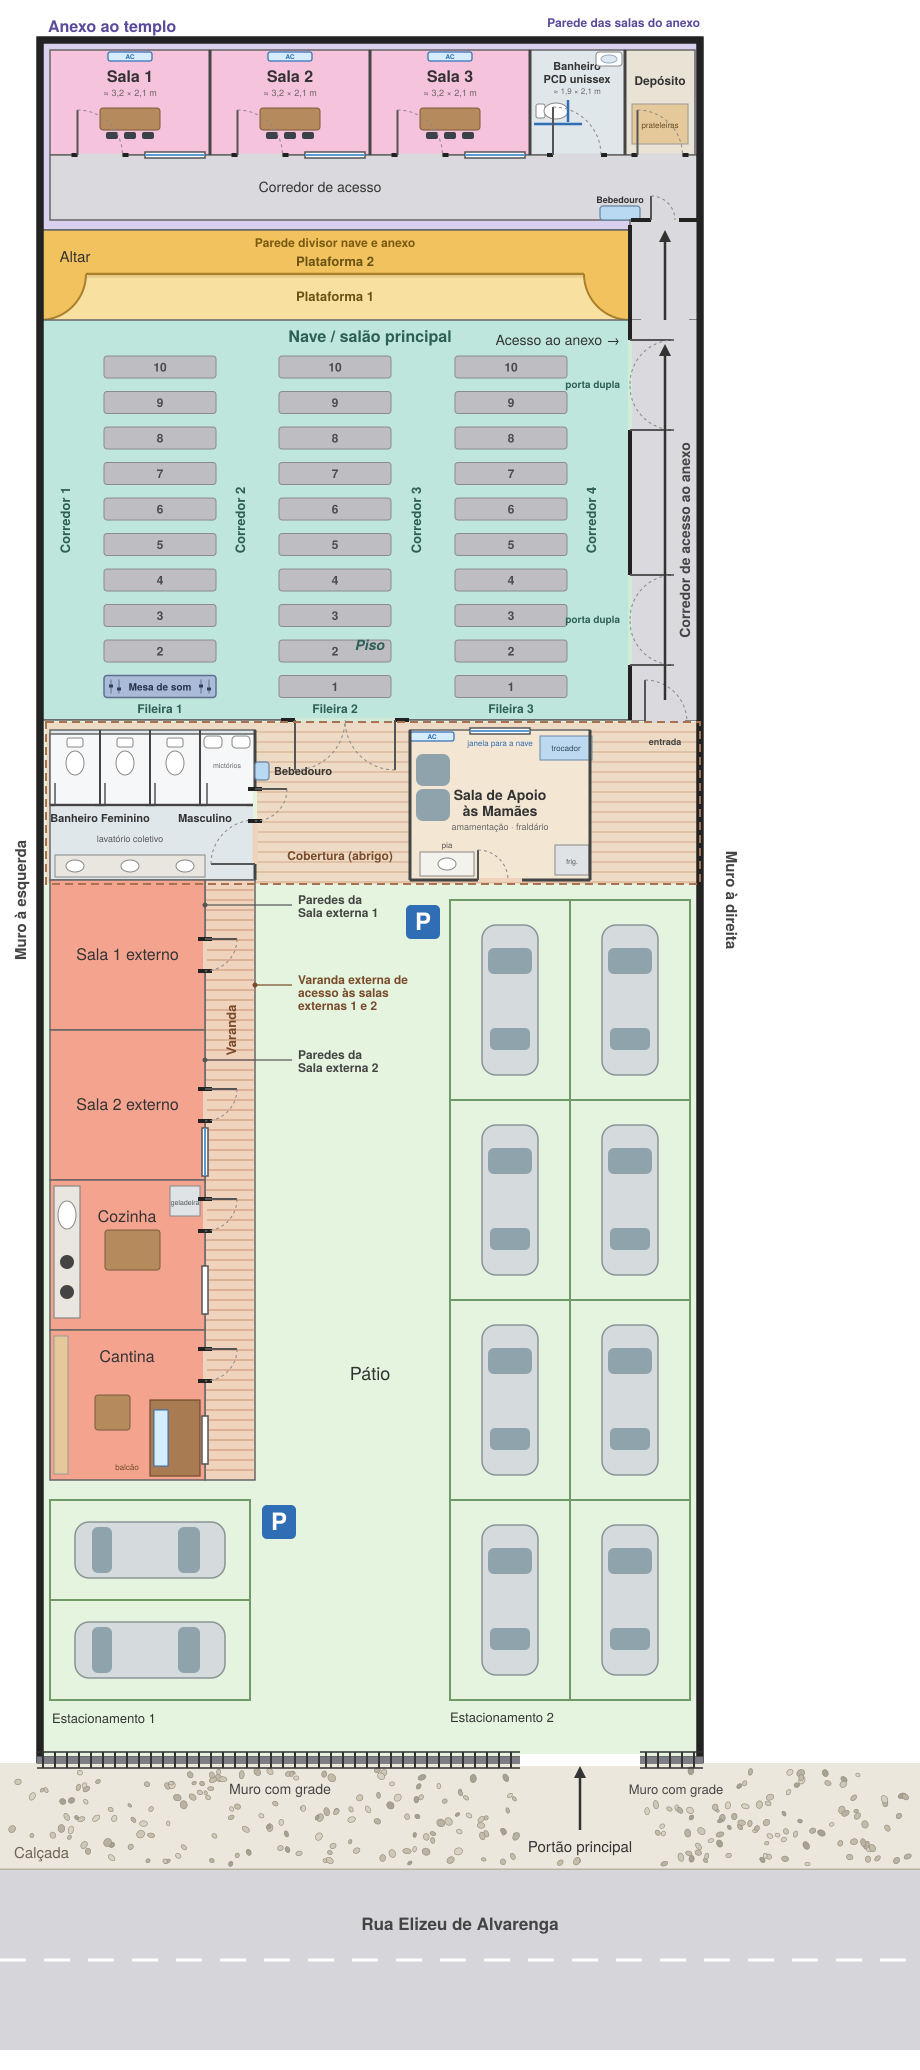
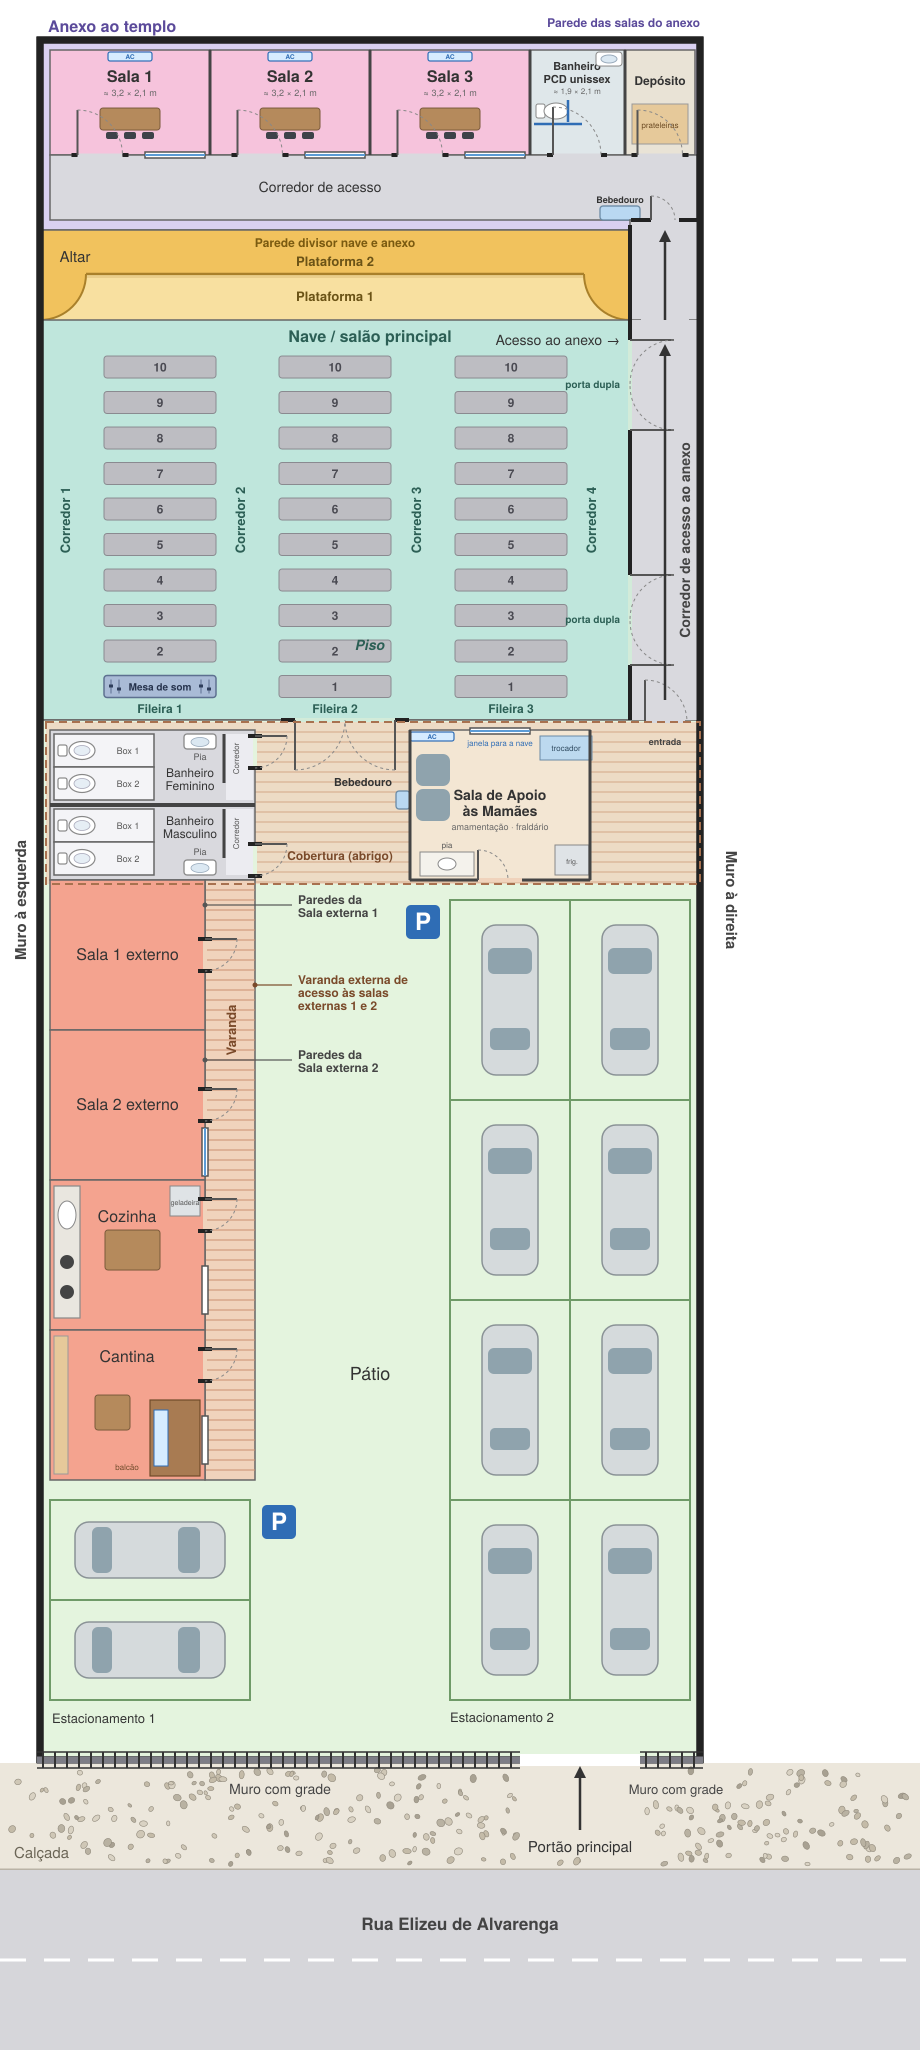
Projeto 2: banheiros iguais aos da Igreja Atual
Claude-Session: https://claude.ai/code/session_015gh4tS64wXyJ2ghbw66cFX

Changed region(s): [[0.0304, 0.3401, 0.3043, 0.4329], [0.4261, 0.371, 0.4565, 0.4019]]

diff --git a/projeto2/maquete.html b/projeto2/maquete.html
@@ -570,29 +570,33 @@
   hwall(1030, 50, 205, BH, [], 'HALF');        hwall(1180, 50, 205, BH, [], 'HALF');
   hwall(1330, 50, 205, BH, [], 'HALF'); hwall(1480, 50, 205, BH, [], 'HALF'); vwall(50, 1180, 1480, BH, [], 'HALF');   // PROJETO 2: Cozinha e Cantina
   vwall(50, 730, 880, BH, [], 'HALF'); vwall(50, 880, 1180, BH, [], 'HALF');
-  vwall(255, 730, 880, BH, [door(842)], 'HALF');   // PROJETO 2: porta da Sala de Apoio às Mamães   // portas: Feminino (cima) / Masculino (baixo)
+  vwall(255, 730, 880, BH, [{ a: 730, b: 774.5, lh: 2.1 }, { a: 837.5, b: 880, lh: 2.1 }], 'HALF');   // PROJETO 2: porta da Sala de Apoio às Mamães   // portas: Feminino (cima) / Masculino (baixo)
   vwall(205, 880, 1180, BH, [door(955), door(1090), win(1146)], 'HALF');
   vwall(205, 1180, 1480, BH, [door(1215), win(1290), door(1365), win(1440)], 'HALF');   // PROJETO 2: portas e janelas da Cozinha e da Cantina (lado da varanda)
   [1215, 1365].forEach(function(c){ doorLeaf(false, 205, c); }); [1290, 1440].forEach(function(c){ winFrame(false, 205, c); });   // portas das salas externas + janela da Sala 2 externo (lado da varanda)
   [955, 1090].forEach(function(c){ doorLeaf(false, 205, c); });
-  doorLeaf(false, 255, 842, 0.86, 2.08, 0.18);   // PROJETO 2: porta de madeira da Sala de Apoio
+  
   winFrame(false, 205, 1146);
   // ---- PROJETO 2: Sala de Apoio às Mamães (x410..590, y730..880), entrada pelo sul; vizinha dos banheiros ----
   hwall(880, 410, 590, BH, [door(500)], 'HALF'); vwall(410, 730, 880, BH, [], 'HALF'); vwall(590, 730, 880, BH, [], 'HALF'); hwall(730, 410, 590, BH, [win(500)], 'HALF');
   doorLeaf(true, 880, 500, 0.86, 2.08, 0.16); winFrame(true, 730, 500);
-  // ---- PROJETO 2: banheiros (x50..255): 2 cabines femininas + cabine e mictórios masculinos, com lavatório coletivo (y805..880); entrada pelo abrigo (leste) ----
-  function wcFix(c, vy){
-    box(0.18, 0.75, 0.22, C.white, X(c), 0.375, Z(vy)); var bw = new THREE.Mesh(new THREE.CylinderGeometry(0.22, 0.17, 0.4, 18), mat(C.white, { roughness: 0.4 })); bw.scale.set(0.72, 1, 1); bw.position.set(X(c), 0.2, Z(vy) + 0.3); bw.castShadow = true; root.add(bw);
-  }
-  hwall(805, 50, 255, BH, [door(75), door(125), door(175), door(227)], 'HALF');
-  [100, 150, 200].forEach(function(vx){ vwall(vx, 730, 805, BH, [], 'HALF'); });
-  [75, 125, 175, 227].forEach(function(c){ doorLeaf(true, 805, c, 0.8, 2.0, 0.12); });
-  [75, 125, 175].forEach(function(c){ wcFix(c, 742); });
-  [213, 241].forEach(function(ux){ box(0.35, 0.55, 0.25, C.white, X(ux), 0.95, Z(736) + 0.1); });
-  box(0.03, 0.8, 0.3, 0xe9ecea, X(227), 0.95, Z(736) + 0.15);
-  box(150 * S, 0.05, 0.5, 0xf2f0ea, X(130), 0.85, Z(868)); box(150 * S, 0.84, 0.45, 0x8d9aa0, X(130), 0.42, Z(868));
-  [75, 130, 185].forEach(function(cx){ var cb = new THREE.Mesh(new THREE.CylinderGeometry(0.17, 0.12, 0.08, 18), mat(0xffffff, { roughness: 0.25 })); cb.position.set(X(cx), 0.87, Z(868)); root.add(cb); box(0.03, 0.2, 0.03, 0xb8bcc0, X(cx), 0.98, Z(868) + 0.12); });
-  box(150 * S, 0.8, 0.02, 0, X(130), 1.6, Z(880) - 0.1, null, { material: new THREE.MeshStandardMaterial({ color: 0xdde9ef, roughness: 0.05, metalness: 0.8 }), cast: false });
+  // ---- PROJETO 2: banheiros iguais aos da IGREJA ATUAL (Feminino y730..805 / Masculino y805..880) ----
+  hwall(805, 50, 255, BH, [], 'HALF');
+  doorLeaf(false, 255, 752.25, 0.86, 2.08, 0.18); doorLeaf(false, 255, 858.75, 0.86, 2.08, 0.18);
+  [730, 805].forEach(function(y0){ [y0 + 20.5, y0 + 53.5].forEach(function(cy){ doorLeaf(false, 154, cy, 0.4, 1.68, 0.1); }); });
+  [730, 805].forEach(function(y0, bi){
+    [y0 + 4, y0 + 37, y0 + 70].forEach(function(py){ hwall(py, 54, 154, 1.9, [], 'HALF', 0.06); });
+    vwall(154, y0 + 4, y0 + 70, 1.9, [{ a: y0 + 9.5, b: y0 + 31.5, lh: 1.7 }, { a: y0 + 42.5, b: y0 + 64.5, lh: 1.7 }], 'HALF', 0.06);
+    [y0 + 20.5, y0 + 53.5].forEach(function(cy){
+      box(0.18, 0.75, 0.22, C.white, X(62.5), 0.375, Z(cy), null, {});
+      var bowl = new THREE.Mesh(new THREE.CylinderGeometry(0.22, 0.17, 0.4, 18), mat(C.white, { roughness: 0.4 }));
+      bowl.scale.set(1, 1, 0.72); bowl.position.set(X(82), 0.2, Z(cy)); bowl.castShadow = true; bowl.receiveShadow = true; root.add(bowl);
+    });
+    var sy = bi === 0 ? y0 + 4 : y0 + 55;
+    box(0.64, 0.85, 0.3, C.white, X(200), 0.425, Z(sy + 7.5));
+    box(0.5, 0.03, 0.2, 0xbcd5e8, X(200), 0.865, Z(sy + 7.5), null, { cast: false });
+    vwall(224, y0 + 4, y0 + 53, 2.4, [], 'HALF', 0.08);
+  });
   // ---- Sala de Apoio: poltronas de amamentação, trocador, pia, geladeira, ar-condicionado ----
   (function(){
     [770, 805].forEach(function(py){
@@ -605,7 +609,7 @@
     var rg = new THREE.Mesh(new THREE.CylinderGeometry(0.95, 0.95, 0.02, 32), mat(0xf0e4d2, { roughness: 1 })); rg.position.set(X(505), 0.12, Z(800)); root.add(rg);
   })();
   // ---- bebedouro: parede externa dos banheiros (abrigo coberto) ----
-  box(0.3, 1.0, 0.35, 0xcfd8dc, X(255) + 0.09 + 0.15, 0.55, Z(770)); box(0.26, 0.05, 0.3, 0x5b9bd5, X(255) + 0.09 + 0.15, 1.07, Z(770)); box(0.05, 0.12, 0.05, 0x888, X(255) + 0.09 + 0.26, 1.15, Z(770));
+  box(0.3, 1.0, 0.35, 0xcfd8dc, X(410) - 0.09 - 0.15, 0.55, Z(800)); box(0.26, 0.05, 0.3, 0x5b9bd5, X(410) - 0.09 - 0.15, 1.07, Z(800)); box(0.05, 0.12, 0.05, 0x888, X(410) - 0.09 - 0.26, 1.15, Z(800));
 
   // ---------- PROJETO 2: interior da Cozinha e da Cantina ----------
   (function(){
@@ -836,12 +840,12 @@
   label('Piso da nave', 370, 560, 1.4, 2.6);
   label('Mesa de som', 160, 687, 1.7, 2.4);
   label('Acesso ao anexo', 665, 270, 6.2, 3.2); label('Corredor de acesso ao anexo', 665, 520, 3.4, 3.4);
-  label('Sala de Apoio às Mamães', 500, 805, 3.9, 3.6); label('Banheiro Feminino', 75, 768, 3.0, 2.4); label('Banheiro Masculino', 200, 768, 3.0, 2.4);
+  label('Sala de Apoio às Mamães', 500, 805, 3.9, 3.6); label('Banheiro Feminino', 120, 767, 3.6, 3.0); label('Banheiro Masculino', 120, 842, 3.6, 3.0);
   label('Sala 1 externo', 127, 955, 3.7, 2.6); label('Sala 2 externo', 127, 1105, 3.7, 2.6);
   label('Varanda', 230, 1130, 3.4, 1.6);
   label('Cozinha', 127, 1255, 3.1, 1.9); label('Cantina', 127, 1405, 3.1, 1.9);
   label('Cobertura (abrigo)', 332, 790, 3.7, 3.0);
-  label('Bebedouro', 285, 770, 2.0, 2.0);
+  label('Bebedouro', 375, 800, 2.0, 2.0);
   label('Estacionamento 1', 150, 1680, 2.2, 3.0); label('Estacionamento 2', 570, 1735, 2.2, 3.0);
   label('Pátio', 370, 1450, 2.4, 1.8);
   label('Portão principal', 580, 1760, 3.8, 3.4);

diff --git a/index.html b/index.html
@@ -97,7 +97,7 @@
   <div class="panel" id="projeto2">
     <section>
       <h2>Projeto 2 — Maquete 3D</h2>
-      <p class="sub">Baseado na igreja atual: Fileira 4 eliminada e corredor de acesso ao anexo com 2 portas para a nave; fileiras e corredores reorganizados; Cozinha e Cantina na parte externa; banheiros (lado oeste, com lavatório coletivo), Sala de Apoio às Mamães (lado leste) e bebedouro ao lado dos banheiros; anexo com 3 salas, banheiro PCD, depósito e bebedouro. Dica: use as vistas <b>Apoio e banheiros</b>, <b>Salas do anexo</b>, <b>Cozinha e Cantina</b> e <b>Corredor (anexo)</b>.</p>
+      <p class="sub">Baseado na igreja atual: Fileira 4 eliminada e corredor de acesso ao anexo com 2 portas para a nave; fileiras e corredores reorganizados; Cozinha e Cantina na parte externa; banheiros iguais aos da igreja atual, Sala de Apoio às Mamães (lado leste) e bebedouro ao lado da Sala de Apoio; anexo com 3 salas, banheiro PCD, depósito e bebedouro. Dica: use as vistas <b>Apoio e banheiros</b>, <b>Salas do anexo</b>, <b>Cozinha e Cantina</b> e <b>Corredor (anexo)</b>.</p>
       <iframe class="frame" data-src="projeto2/maquete.html" title="Maquete 3D do Projeto 2" allowfullscreen></iframe>
       <div class="btns"><a class="btn" href="projeto2/maquete.html" target="_blank" rel="noopener">Abrir em tela cheia</a></div>
     </section>
